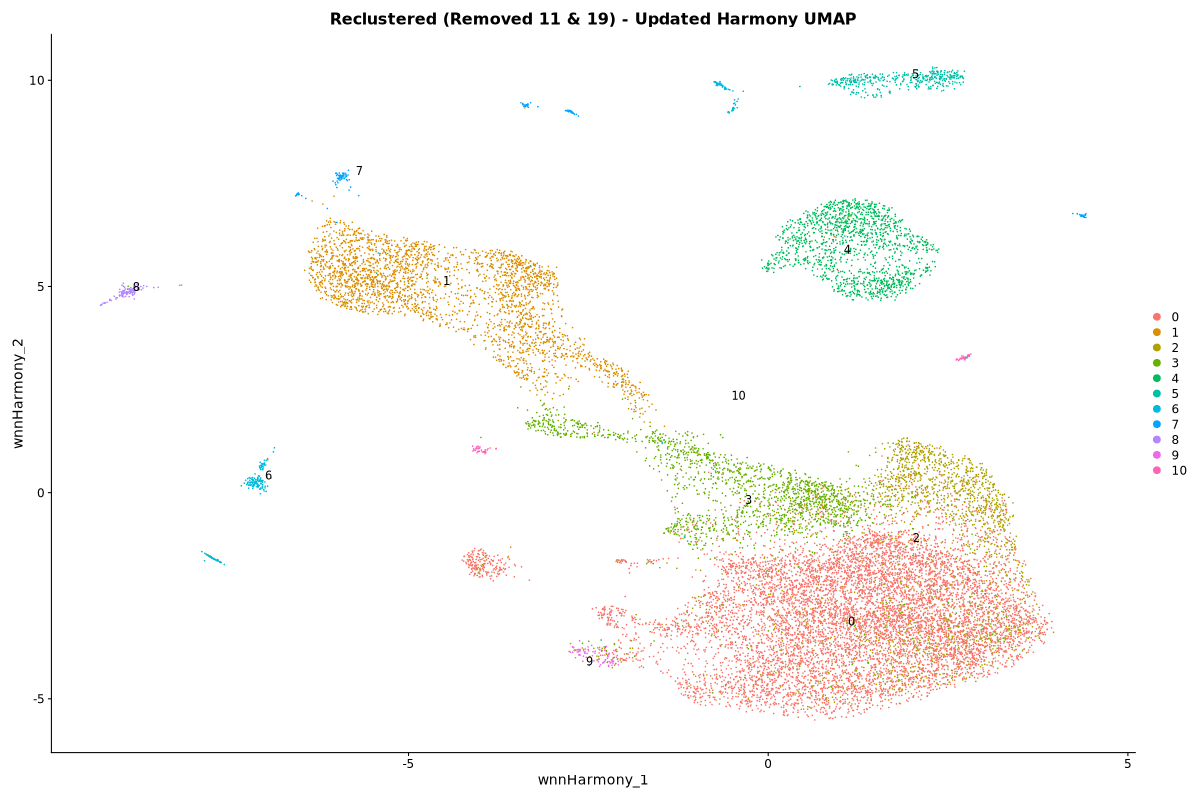
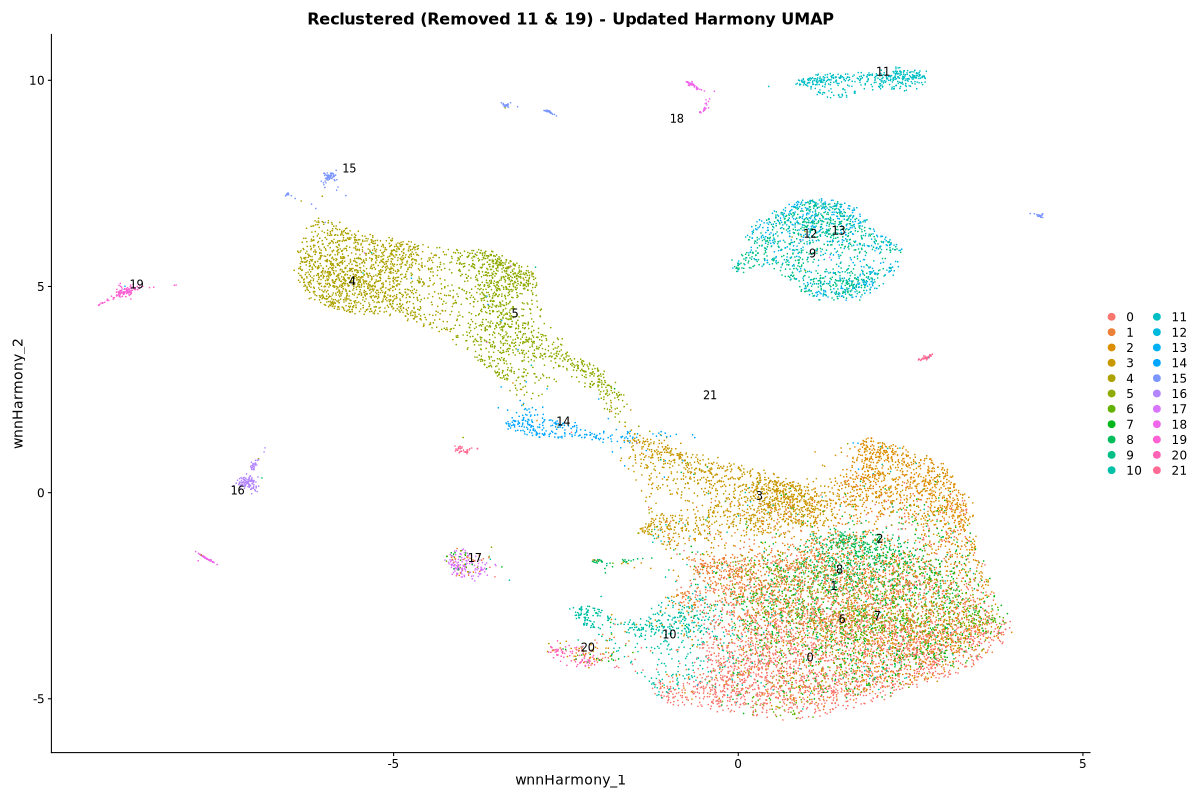
Increase resolution to more seperate for clusters

diff --git a/README.md b/README.md
@@ -53,39 +53,39 @@ Overexpression of stablized version of Neurog2
 ## Marker Genes feature  plots
 
 
-<img src="figures/cNeurog2_Abca8a_FeaturePlot.png?v=13" width="200"> <img src="figures/cNeurog2_Acta2_FeaturePlot.png?v=13" width="200"> <img src="figures/cNeurog2_Apoe_FeaturePlot.png?v=13" width="200">
+<img src="figures/cNeurog2_Abca8a_FeaturePlot.png?v=24" width="200"> <img src="figures/cNeurog2_Acta2_FeaturePlot.png?v=24" width="200"> <img src="figures/cNeurog2_Apoe_FeaturePlot.png?v=24" width="200">
 
-<img src="figures/cNeurog2_Aqp4_FeaturePlot.png?v=13" width="200"> <img src="figures/cNeurog2_Arr3_FeaturePlot.png?v=13" width="200"> <img src="figures/cNeurog2_Ascl1_FeaturePlot.png?v=13" width="200">
+<img src="figures/cNeurog2_Aqp4_FeaturePlot.png?v=24" width="200"> <img src="figures/cNeurog2_Arr3_FeaturePlot.png?v=24" width="200"> <img src="figures/cNeurog2_Ascl1_FeaturePlot.png?v=24" width="200">
 
-<img src="figures/cNeurog2_Atoh7_FeaturePlot.png?v=13" width="200"> <img src="figures/cNeurog2_Bsn_FeaturePlot.png?v=13" width="200"> <img src="figures/cNeurog2_Cabp5_FeaturePlot.png?v=13" width="200">
+<img src="figures/cNeurog2_Atoh7_FeaturePlot.png?v=24" width="200"> <img src="figures/cNeurog2_Bsn_FeaturePlot.png?v=24" width="200"> <img src="figures/cNeurog2_Cabp5_FeaturePlot.png?v=24" width="200">
 
-<img src="figures/cNeurog2_Calb1_FeaturePlot.png?v=13" width="200"> <img src="figures/cNeurog2_Calb2_FeaturePlot.png?v=13" width="200"> <img src="figures/cNeurog2_Ccr2_FeaturePlot.png?v=13" width="200">
+<img src="figures/cNeurog2_Calb1_FeaturePlot.png?v=24" width="200"> <img src="figures/cNeurog2_Calb2_FeaturePlot.png?v=24" width="200"> <img src="figures/cNeurog2_Ccr2_FeaturePlot.png?v=24" width="200">
 
-<img src="figures/cNeurog2_Chat_FeaturePlot.png?v=13" width="200"> <img src="figures/cNeurog2_Csf1r_FeaturePlot.png?v=13" width="200"> <img src="figures/cNeurog2_Elavl4_FeaturePlot.png?v=13" width="200">
+<img src="figures/cNeurog2_Chat_FeaturePlot.png?v=24" width="200"> <img src="figures/cNeurog2_Csf1r_FeaturePlot.png?v=24" width="200"> <img src="figures/cNeurog2_Elavl4_FeaturePlot.png?v=24" width="200">
 
-<img src="figures/cNeurog2_Emx1_FeaturePlot.png?v=13" width="200"> <img src="figures/cNeurog2_Gad1_FeaturePlot.png?v=13" width="200"> <img src="figures/cNeurog2_Gfap_FeaturePlot.png?v=13" width="200">
+<img src="figures/cNeurog2_Emx1_FeaturePlot.png?v=24" width="200"> <img src="figures/cNeurog2_Gad1_FeaturePlot.png?v=24" width="200"> <img src="figures/cNeurog2_Gfap_FeaturePlot.png?v=24" width="200">
 
-<img src="figures/cNeurog2_Glul_FeaturePlot.png?v=13" width="200"> <img src="figures/cNeurog2_Hes1_FeaturePlot.png?v=13" width="200"> <img src="figures/cNeurog2_Hes5_FeaturePlot.png?v=13" width="200">
+<img src="figures/cNeurog2_Glul_FeaturePlot.png?v=24" width="200"> <img src="figures/cNeurog2_Hes1_FeaturePlot.png?v=24" width="200"> <img src="figures/cNeurog2_Hes5_FeaturePlot.png?v=24" width="200">
 
-<img src="figures/cNeurog2_Insm1_FeaturePlot.png?v=13" width="200"> <img src="figures/cNeurog2_Isl1_FeaturePlot.png?v=13" width="200"> <img src="figures/cNeurog2_Lhx1_FeaturePlot.png?v=13" width="200">
+<img src="figures/cNeurog2_Insm1_FeaturePlot.png?v=24" width="200"> <img src="figures/cNeurog2_Isl1_FeaturePlot.png?v=24" width="200"> <img src="figures/cNeurog2_Lhx1_FeaturePlot.png?v=24" width="200">
 
-<img src="figures/cNeurog2_Lhx2_FeaturePlot.png?v=13" width="200"> <img src="figures/cNeurog2_Lhx4_FeaturePlot.png?v=13" width="200"> <img src="figures/cNeurog2_Malat1_FeaturePlot.png?v=13" width="200">
+<img src="figures/cNeurog2_Lhx2_FeaturePlot.png?v=24" width="200"> <img src="figures/cNeurog2_Lhx4_FeaturePlot.png?v=24" width="200"> <img src="figures/cNeurog2_Malat1_FeaturePlot.png?v=24" width="200">
 
-<img src="figures/cNeurog2_mScarlet3_FeaturePlot.png?v=13" width="200"> <img src="figures/cNeurog2_mt-Atp6_FeaturePlot.png?v=13" width="200"> <img src="figures/cNeurog2_Neurog2-9SA_FeaturePlot.png?v=13" width="200">
+<img src="figures/cNeurog2_mScarlet3_FeaturePlot.png?v=24" width="200"> <img src="figures/cNeurog2_mt-Atp6_FeaturePlot.png?v=24" width="200"> <img src="figures/cNeurog2_Neurog2-9SA_FeaturePlot.png?v=24" width="200">
 
-<img src="figures/cNeurog2_Neurog2_FeaturePlot.png?v=13" width="200"> <img src="figures/cNeurog2_Notch1_FeaturePlot.png?v=13" width="200"> <img src="figures/cNeurog2_Nrl_FeaturePlot.png?v=13" width="200">
+<img src="figures/cNeurog2_Neurog2_FeaturePlot.png?v=24" width="200"> <img src="figures/cNeurog2_Notch1_FeaturePlot.png?v=24" width="200"> <img src="figures/cNeurog2_Nrl_FeaturePlot.png?v=24" width="200">
 
-<img src="figures/cNeurog2_Olig2_FeaturePlot.png?v=13" width="200"> <img src="figures/cNeurog2_Otx2_FeaturePlot.png?v=13" width="200"> <img src="figures/cNeurog2_Pax2_FeaturePlot.png?v=13" width="200">
+<img src="figures/cNeurog2_Olig2_FeaturePlot.png?v=24" width="200"> <img src="figures/cNeurog2_Otx2_FeaturePlot.png?v=24" width="200"> <img src="figures/cNeurog2_Pax2_FeaturePlot.png?v=24" width="200">
 
-<img src="figures/cNeurog2_Pax6_FeaturePlot.png?v=13" width="200"> <img src="figures/cNeurog2_Prdm1_FeaturePlot.png?v=13" width="200"> <img src="figures/cNeurog2_Prdx6_FeaturePlot.png?v=13" width="200">
+<img src="figures/cNeurog2_Pax6_FeaturePlot.png?v=24" width="200"> <img src="figures/cNeurog2_Prdm1_FeaturePlot.png?v=24" width="200"> <img src="figures/cNeurog2_Prdx6_FeaturePlot.png?v=24" width="200">
 
-<img src="figures/cNeurog2_Rbfox3_FeaturePlot.png?v=13" width="200"> <img src="figures/cNeurog2_Rho_FeaturePlot.png?v=13" width="200"> <img src="figures/cNeurog2_Rlbp1_FeaturePlot.png?v=13" width="200">
+<img src="figures/cNeurog2_Rbfox3_FeaturePlot.png?v=24" width="200"> <img src="figures/cNeurog2_Rho_FeaturePlot.png?v=24" width="200"> <img src="figures/cNeurog2_Rlbp1_FeaturePlot.png?v=24" width="200">
 
-<img src="figures/cNeurog2_Sebox_FeaturePlot.png?v=13" width="200"> <img src="figures/cNeurog2_Slc17a7_FeaturePlot.png?v=13" width="200"> <img src="figures/cNeurog2_Slc1a3_FeaturePlot.png?v=13" width="200">
+<img src="figures/cNeurog2_Sebox_FeaturePlot.png?v=24" width="200"> <img src="figures/cNeurog2_Slc17a7_FeaturePlot.png?v=24" width="200"> <img src="figures/cNeurog2_Slc1a3_FeaturePlot.png?v=24" width="200">
 
-<img src="figures/cNeurog2_Slc6a9_FeaturePlot.png?v=13" width="200"> <img src="figures/cNeurog2_Sox11_FeaturePlot.png?v=13" width="200"> <img src="figures/cNeurog2_Sox9_FeaturePlot.png?v=13" width="200">
+<img src="figures/cNeurog2_Slc6a9_FeaturePlot.png?v=24" width="200"> <img src="figures/cNeurog2_Sox11_FeaturePlot.png?v=24" width="200"> <img src="figures/cNeurog2_Sox9_FeaturePlot.png?v=24" width="200">
 
-<img src="figures/cNeurog2_Tfap2a_FeaturePlot.png?v=13" width="200"> <img src="figures/cNeurog2_Tie1_FeaturePlot.png?v=13" width="200"> <img src="figures/cNeurog2_Vim_FeaturePlot.png?v=13" width="200">
+<img src="figures/cNeurog2_Tfap2a_FeaturePlot.png?v=24" width="200"> <img src="figures/cNeurog2_Tie1_FeaturePlot.png?v=24" width="200"> <img src="figures/cNeurog2_Vim_FeaturePlot.png?v=24" width="200">
 
 
 
@@ -93,40 +93,40 @@ Overexpression of stablized version of Neurog2
 
 # WILL NEED TO REANNOTATE 
 
-![Annotations](figures/cNeurog2_annotated_umap.png?v=1)
+![Annotations](figures/cNeurog2_annotated_umap.png?v=2)
 
 
 ## Cell ratio -Missing AC - 
 
-![Cell ratio](figures/cNeurog2_celltype_ratio_by_sample.png?v=1)
+![Cell ratio](figures/cNeurog2_celltype_ratio_by_sample.png?v=2)
 
 
 
 ## Differential Gene Expression
 
-![](figures/cNeurog2_celltype_markers_heatmap.png?v=1)
+![](figures/cNeurog2_celltype_markers_heatmap.png?v=2)
 
-![](figures/cNeurog2_celltype_top_markers_featureplot.png?v=1)
+![](figures/cNeurog2_celltype_top_markers_featureplot.png?v=2)
 
-![](figures/cNeurog2_celltype_markers_dotplot.png?v=1)
+![](figures/cNeurog2_celltype_markers_dotplot.png?v=2)
 
 ##### Rod 
-![](figures/cNeurog2_Rod_markers_violin.png?v=1)
+![](figures/cNeurog2_Rod_markers_violin.png?v=2)
 
 #### BC
 
-![](figures/cNeurog2_BC_markers_violin.png?v=1)
+![](figures/cNeurog2_BC_markers_violin.png?v=2)
 
 #### MGPC
-![](figures/cNeurog2_MGPC_markers_violin.png?v=1)
+![](figures/cNeurog2_MGPC_markers_violin.png?v=2)
 
 #### MG
-![](figures/cNeurog2_MG_markers_violin.png?v=1)
+![](figures/cNeurog2_MG_markers_violin.png?v=2)
 
 
 ## Top Differential Peaks after annotation (nearby Genes)
 
 
-![](figures/TopPeaks.png?v=1)
+![](figures/TopPeaks.png?v=2)
 
 
